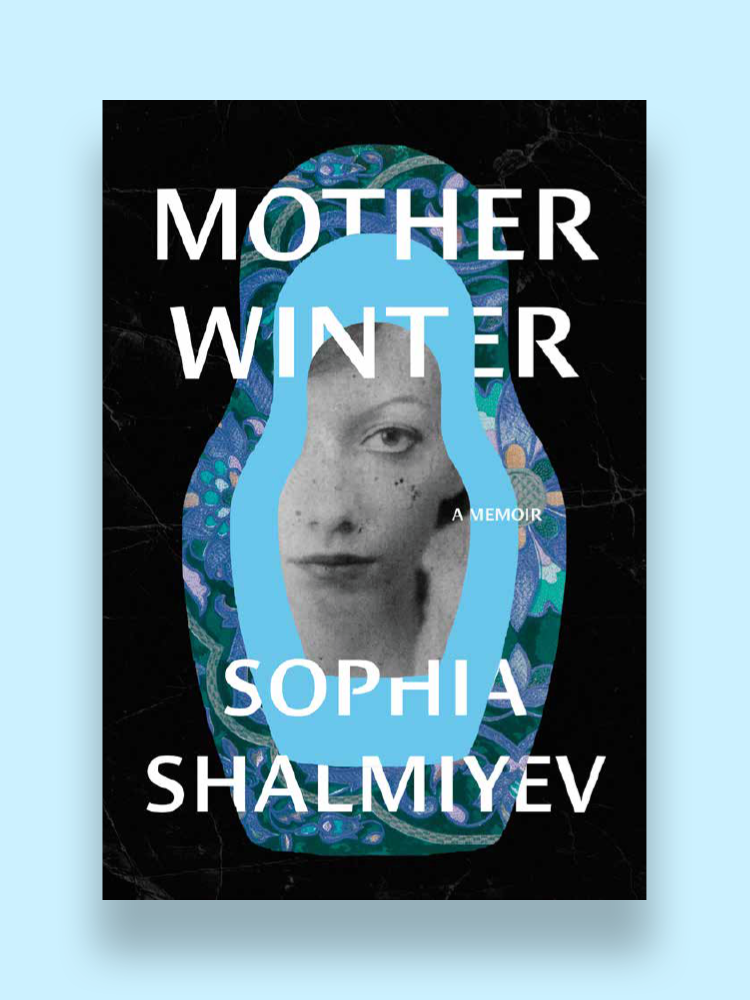
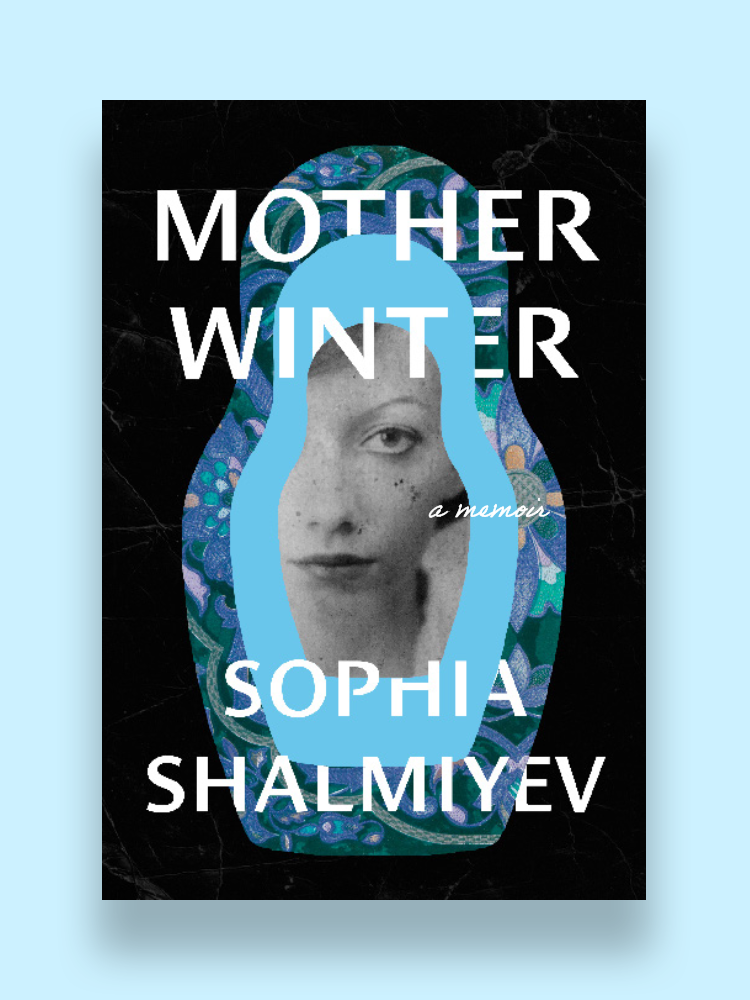
update

diff --git a/change-the-wallpaper.html b/change-the-wallpaper.html
@@ -33,10 +33,17 @@
 	</nav>
 </header>
 <main>
-	<div class="image-grid">
+	<div>
+		<div style="margin-bottom: 16px" class="image-grid">
+			<img src="images/change-the-wallpaper_3.png" alt=""/>
+			<img src="images/change-the-wallpaper_4.png" alt=""/>
+		</div>
+		<p class="caption">unused directions</p>
 		<img src="images/change-the-wallpaper_1.png" alt=""/>
+		<p class="caption">published cover</p>
 		<img src="images/change-the-wallpaper_2.png" alt=""/>
-	</div>
+		<p class="caption">jacket mechanical</p>
+	</div>	
 	<div class="text">
 		<div class="text-media">
 				<h1>Change the Wallpaper</h1>

diff --git a/mother-winter.html b/mother-winter.html
@@ -43,7 +43,7 @@
 		<div class="text-media">
 				<h1>Mother Winter</h1>
 			<div class="text-section">
-				<p>Cover ideas for a memoir touching on themes of motherhood and life in the Soviet Union.</p>
+				<p>Initial cover ideas for a memoir touching on themes of motherhood and life in the Soviet Union.</p>
 			</div>
 		</div>
 	</div>
